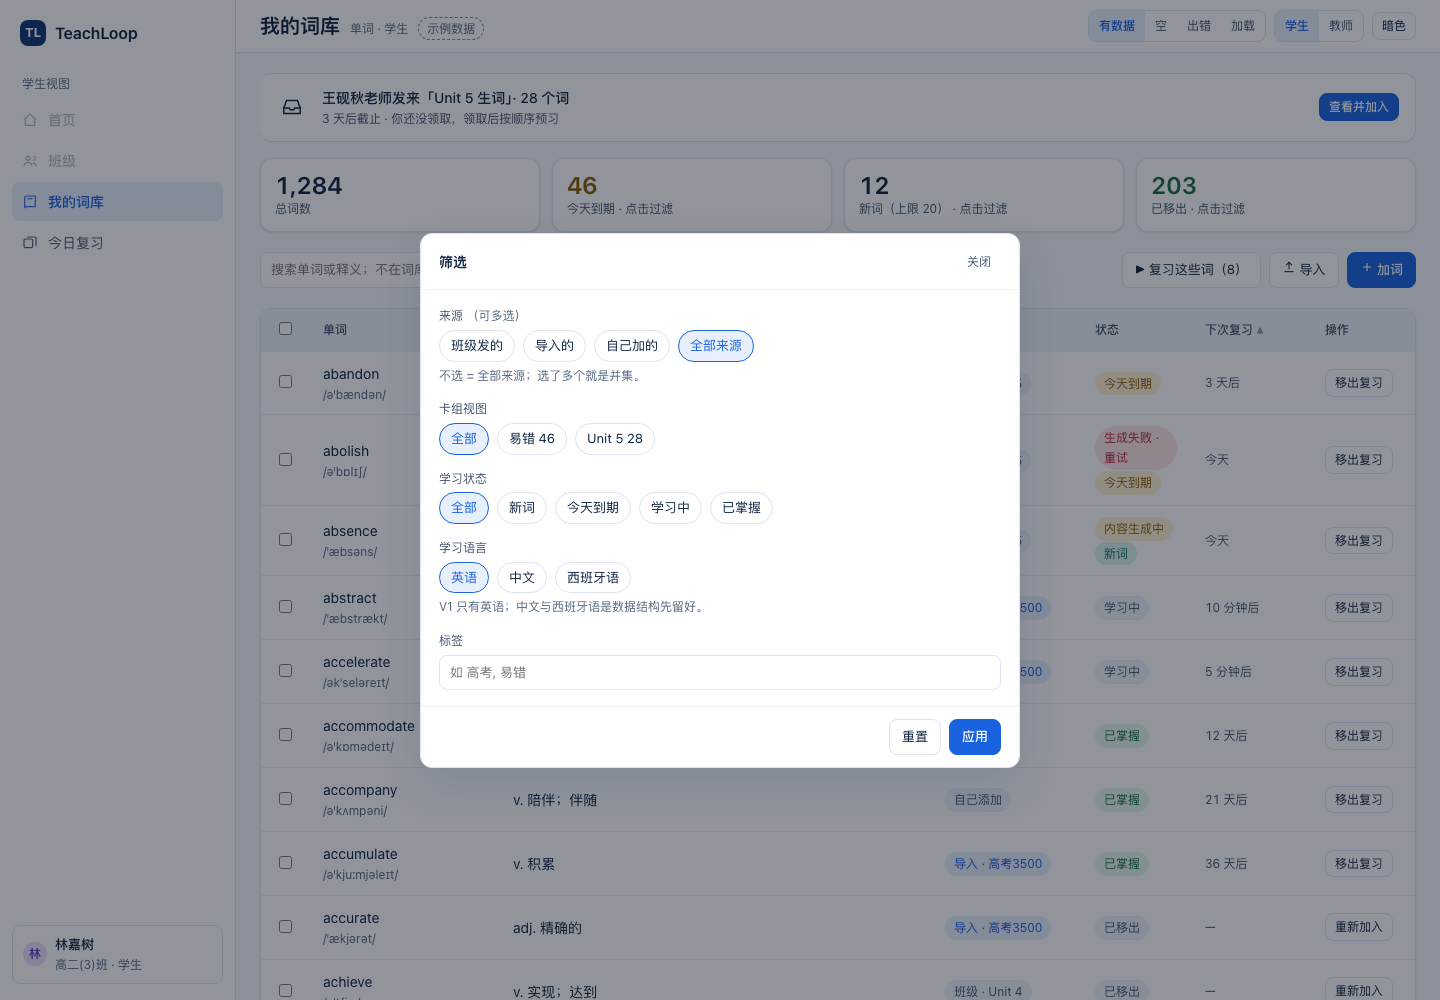
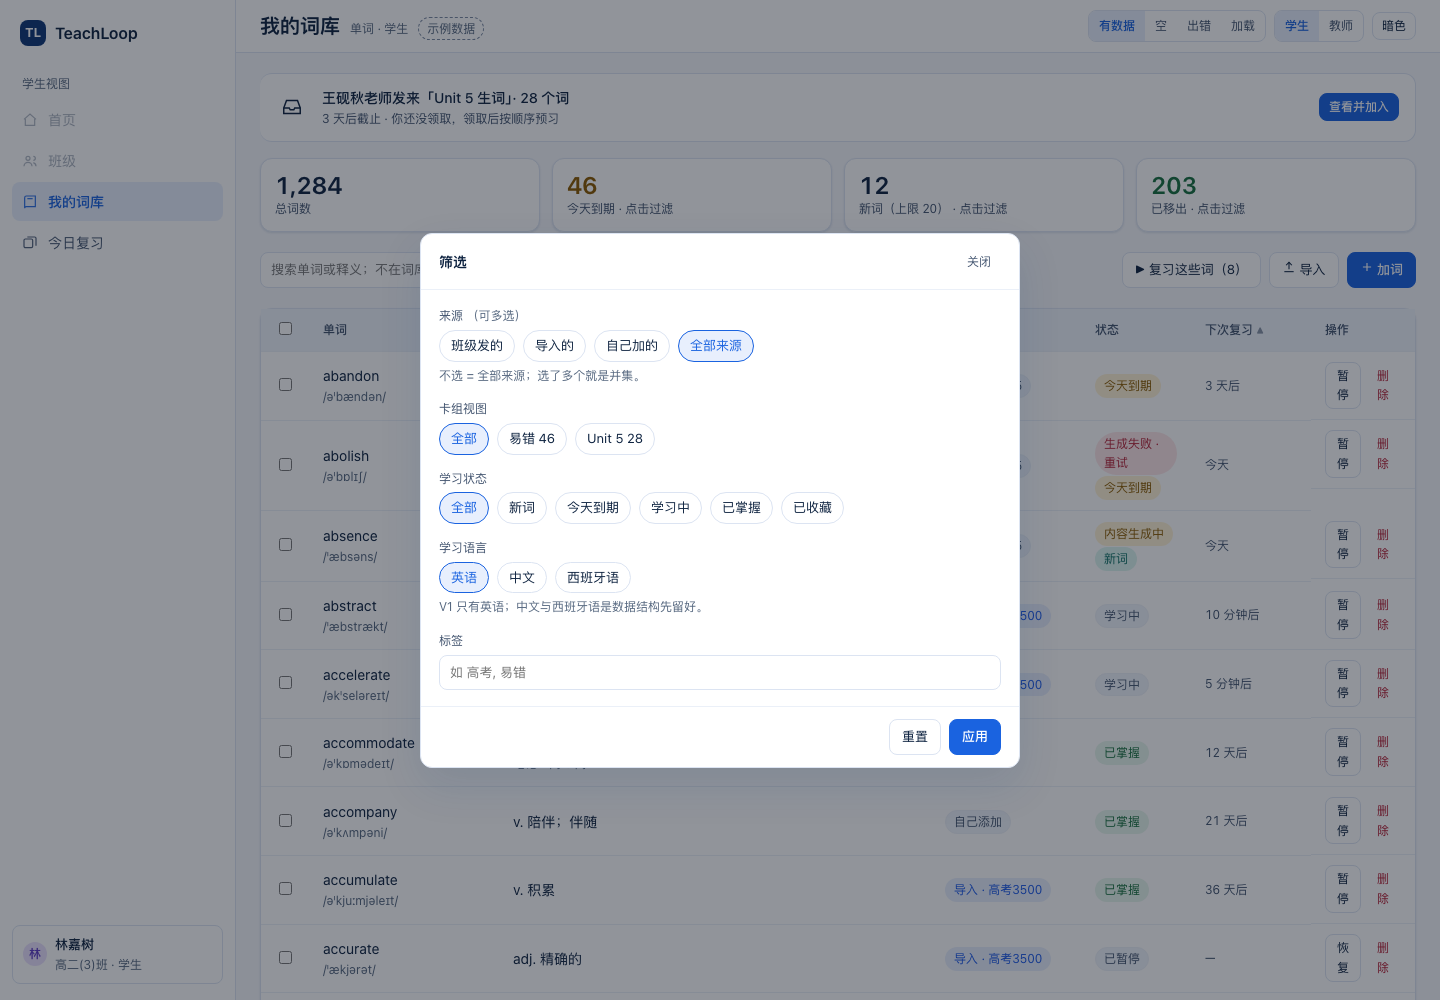
docs(vocab): 收藏 / 暂停 / 删除 三个动作拆清楚
用户问「favorite 和 delete 都是啥」，暴露出语义重叠：移出复习听起来像删除，真正的删除又没露出来。

- 收藏：纯标记，并给筛选加「已收藏」条件，让按钮有用途
- 暂停复习（原「移出复习」改名）：不排期、词还在库；行内与详情页都有
- 删除：软删除，**只在词库页**（行内与批量），列表/搜索/队列/统计都看不见；详情页不提供
- 恢复：仅对已暂停的词出现，回到新词
- 原型同步改名与按钮；操作列加宽、去掉换行

spec：AC-59.2/59.3/59.9/59.11、AC-60.3 改写；新增 §20 三个动作的分工表；AC 94→95。

diff --git a/docs/mock/vocab-2026-10-23/index.html b/docs/mock/vocab-2026-10-23/index.html
@@ -362,7 +362,8 @@ const S = {
   // 第二轮反馈新增
   card:null,            // 统计卡过滤：due | new | grad | null
   sel:[],               // 勾选的词
-  known:[],             // 已「移出复习」的词
+  known:[],             // 已「暂停复习」的词
+  deleted:[],           // 已从词库软删除的词（学生看不见）
   sort:'next',          // 默认按下次复习升序
   sortDir:1,
   cols:['def','src','st','next'],   // 除「单词」外的列，顺序即显示顺序
@@ -497,7 +498,7 @@ function screenLibrary(){
   if (S.ds!=='data') return BANNER + stateBlock(S.ds);
 
   const known = w => S.known.includes(w) || w.st==='grad';
-  let rows = WORDS.filter(w=>{
+  let rows = WORDS.filter(w=>!S.deleted.includes(w.w)).filter(w=>{
     if (S.q && !(w.w.includes(S.q.toLowerCase()) || w.def.includes(S.q))) return false;
     if (S.popFilters.src.length && !S.popFilters.src.some(k =>
           (k==='class' && w.src.startsWith('班级')) ||
@@ -507,7 +508,8 @@ function screenLibrary(){
     if (S.card==='due' && w.st!=='due') return false;
     if (S.card==='new' && w.st!=='new') return false;
     if (S.card==='grad' && !known(w) && w.st!=='grad') return false;
-    if (S.popFilters.status!=='all' && w.st!==S.popFilters.status) return false;
+    if (S.popFilters.status==='fav') { if (!S.fav.includes(w.w)) return false; }
+    else if (S.popFilters.status!=='all' && w.st!==S.popFilters.status) return false;
     return true;
   });
   rows = rows.slice().sort((a,b)=>{
@@ -521,7 +523,7 @@ function screenLibrary(){
   const COL = { def:'释义', src:'来源', st:'状态', next:'下次复习' };
   const genChip = w => w.gen==='pending' ? '<span class="chip due">内容生成中</span>'
     : w.gen==='failed' ? '<span class="chip" style="background:var(--red-weak);color:var(--red);border-color:transparent">生成失败 · 重试</span>' : '';
-  const stChip = w => known(w) ? '<span class="chip">已移出</span>'
+  const stChip = w => known(w) ? '<span class="chip">已暂停</span>'
     : w.st==='due' ? '<span class="chip due">今天到期</span>'
     : w.st==='new' ? '<span class="chip assess">新词</span>'
     : w.st==='learn' ? '<span class="chip">学习中</span>'
@@ -534,7 +536,7 @@ function screenLibrary(){
       ['1,284','总词数','',null],
       ['46','今天到期','var(--amber)','due'],
       ['12','新词（上限 20）','','new'],
-      ['203','已移出','var(--green)','grad']
+      ['203','已暂停','var(--green)','grad']
     ].map(([k,l,c,f])=>`<div class="card stat ${f?'clickable':''} ${S.card===f?'on':''}"
       ${f?`onclick="S.card=S.card==='${f}'?null:'${f}';render()"`:''}>
       <div class="k mono" style="${c?`color:${c}`:''}">${k}</div><div class="l">${l}${f?' · 点击过滤':''}</div></div>`).join('')}
@@ -564,7 +566,8 @@ function screenLibrary(){
 
   ${S.sel.length?`<div class="batchbar">
     <b>已选 ${S.sel.length} 个</b>
-    <button class="btn sm primary" onclick="bulkKnown()">批量移出复习</button>
+    <button class="btn sm primary" onclick="bulkKnown()">批量暂停</button>
+    <button class="btn sm" style="color:var(--red)" onclick="bulkDelete()">批量删除</button>
     <button class="btn sm" onclick="S.sel=[];render()">取消选择</button>
     <span class="sm muted">批量操作会先二次确认，提示将影响 N 个词</span>
   </div>`:''}
@@ -578,7 +581,7 @@ function screenLibrary(){
         ${S.cols.filter(c=>c==='src').map(()=>`<th style="width:150px">来源</th>`).join('')}
         ${S.cols.filter(c=>c==='st').map(()=>`<th class="sortable" style="width:110px" onclick="setSort('st')">状态 ${arrow('st')}</th>`).join('')}
         ${S.cols.filter(c=>c==='next').map(()=>`<th class="sortable" style="width:120px" onclick="setSort('next')">下次复习 ${arrow('next')}</th>`).join('')}
-        <th style="width:104px">操作</th>
+        <th style="width:132px">操作</th>
       </tr></thead>
       <tbody>
         ${rows.map(w=>`<tr>
@@ -590,7 +593,10 @@ function screenLibrary(){
           ${S.cols.filter(c=>c==='src').map(()=>`<td><span class="chip ${w.srcType}">${w.src}</span></td>`).join('')}
           ${S.cols.filter(c=>c==='st').map(()=>`<td>${genChip(w)}${stChip(w)}</td>`).join('')}
           ${S.cols.filter(c=>c==='next').map(()=>`<td class="mono sm muted">${known(w)?'—':w.due}</td>`).join('')}
-          <td>${known(w)?`<button class="btn sm" onclick="unmarkKnown('${w.w}')">重新加入</button>`:`<button class="btn sm" onclick="markKnown('${w.w}');toast('已移出复习；可在词库筛「已移出」找回')">移出复习</button>`}</td>
+          <td class="row" style="gap:4px;white-space:nowrap">
+            ${known(w)?`<button class="btn sm" onclick="unmarkKnown('${w.w}')">恢复</button>`:`<button class="btn sm" onclick="markKnown('${w.w}');toast('已暂停复习；可随时恢复')">暂停</button>`}
+            <button class="btn ghost sm" style="color:var(--red)" onclick="softDelete('${w.w}')">删除</button>
+          </td>
         </tr>`).join('')}
         ${rows.length===0?`<tr><td colspan="7"><div class="state" style="padding:28px"><h3>没有匹配的词</h3><p>清掉筛选或换个关键词试试。</p><button class="btn" onclick="S.card=null;S.q='';S.popFilters={src:[],deck:'all',status:'all',lang:'en'};render()">清空筛选</button></div></td></tr>`:''}
       </tbody>
@@ -630,7 +636,7 @@ function filterModal(){
         </div>
         <div class="field"><label>学习状态</label>
           <div class="class-pick">
-            ${[['all','全部'],['new','新词'],['due','今天到期'],['learn','学习中'],['grad','已掌握']].map(([v,l])=>
+            ${[['all','全部'],['new','新词'],['due','今天到期'],['learn','学习中'],['grad','已掌握'],['fav','已收藏']].map(([v,l])=>
               `<button class="class-chip ${F.status===v?'on':''}" onclick="S.popFilters.status='${v}';render()">${l}</button>`).join('')}
           </div></div>
         <div class="field"><label>学习语言</label>
@@ -650,7 +656,9 @@ function toggleSrc(v){ const a=S.popFilters.src; S.popFilters.src = a.includes(v
 function filterCount(){ let n=0; if(S.popFilters.src.length) n++; if(S.popFilters.deck!=='all') n++; if(S.popFilters.status!=='all') n++; if(S.popFilters.lang!=='en') n++; if(S.card) n++; return n; }
 function toggleSel(w){ S.sel = S.sel.includes(w)?S.sel.filter(x=>x!==w):[...S.sel,w]; render(); }
 function toggleAll(on){ S.sel = on?'':[]; if(on){} render(); }
-function bulkKnown(){ S.known=[...new Set([...S.known,...S.sel])]; toast(`已将 ${S.sel.length} 个词移出复习`); S.sel=[]; render(); }
+function softDelete(w){ S.deleted=[...new Set([...S.deleted,w])]; S.sel=S.sel.filter(x=>x!==w); toast('已从词库删除（软删除，历史记录保留）'); render(); }
+function bulkDelete(){ S.deleted=[...new Set([...S.deleted,...S.sel])]; toast(`已删除 ${S.sel.length} 个词`); S.sel=[]; render(); }
+function bulkKnown(){ S.known=[...new Set([...S.known,...S.sel])]; toast(`已暂停 ${S.sel.length} 个词`); S.sel=[]; render(); }
 function setSort(k){ if(S.sort===k) S.sortDir=-S.sortDir; else {S.sort=k;S.sortDir=1;} render(); }
 function moveCol(i,d){ const j=i+d; if(j<0||j>=S.cols.length) return; const a=S.cols.slice(); [a[i],a[j]]=[a[j],a[i]]; S.cols=a; render(); }
 function startFree(n){ S.free=true; S.freeTotal=n; S.freeIdx=0; S.freeKnown=0; S.freeRated={again:0,hard:0,good:0,easy:0}; S.flipped=false; S.screen='review'; render(); }
@@ -682,8 +690,7 @@ function screenDetail(){
           <div class="row">
             ${isNewWord?`<button class="btn primary" onclick="addFromDetail()">＋ 加入词库</button>`:`
               <button class="fav ${isFav?'on':''}" onclick="toggleFav('${w.w}')">${isFav?'★ 已收藏':'☆ 收藏'}</button>
-              <button class="btn" title="回到新词，历史日志保留" onclick="resetWord('${w.w}')">重新加入生词本</button>
-              <button class="btn" onclick="S.known.includes('${w.w}')?unmarkKnown('${w.w}'):markKnown('${w.w}')">${S.known.includes('${w.w}')?'取消移出':'移出复习'}</button>`}
+              <button class="btn" onclick="S.known.includes('${w.w}')?unmarkKnown('${w.w}'):markKnown('${w.w}')">${S.known.includes('${w.w}')?'恢复复习':'暂停复习'}</button>`}
           </div>
         </div>
       </div>
@@ -746,7 +753,7 @@ function screenDetail(){
         ${isNewWord ? `<div class="between"><span>状态</span><span class="muted">未加入词库</span></div>
         <div class="between"><span>下次复习</span><span class="mono">—</span></div>
         <div class="sm muted-2" style="margin-top:8px">加入后进入「新词」队列，今天就能复习。</div>` : `
-        <div class="between"><span>状态</span><span>${S.known.includes(w.w)?'已移出复习':'复习中'}</span></div>
+        <div class="between"><span>状态</span><span>${S.known.includes(w.w)?'已暂停':'复习中'}</span></div>
         <div class="between"><span>下次复习</span><span class="mono">${S.known.includes(w.w)?'—':w.due}</span></div>
         <div class="between"><span>易度</span><span class="mono">2.50</span></div>
         <div class="between"><span>间隔</span><span class="mono">12 天</span></div>`}

diff --git a/specs/004-vocab/spec.md b/specs/004-vocab/spec.md
@@ -172,15 +172,16 @@
 > 词库是学生批处理的主战场，不是一个只读列表。
 
 - [ ] AC-59.1 每行最左有**复选框**；表头有全选；选中 ≥1 行后出现批量操作条，可**批量「移出复习」**（二次确认，显示将影响 N 个词）。
-- [ ] AC-59.2 每行右侧有**「移出复习」按钮**，单条操作；移出后该词立刻从「今日复习」与「到期」统计里消失，状态显示「已移出」；**词仍在词库、仍可搜索到**，行内按钮变为「重新加入」。
-- [ ] AC-59.3 **重新加入 = 回到生词本**：状态回到「新词」，当天进入队列重新开始排期；历史复习日志保留，不删除记录。
+- [ ] AC-59.2 每行右侧有**「暂停 / 恢复」按钮**（原「移出复习」改名）：暂停后该词立刻从「今日复习」与「到期」统计里消失，状态显示「已暂停」；**词仍在词库、仍可搜索到**，行内按钮变为「恢复」。
+- [ ] AC-59.3 **恢复 = 回到生词本**：状态回到「新词」，当天进入队列重新开始排期；历史复习日志保留，不删除记录。
 - [ ] AC-59.4 点击单词（非复选框区域）进入**单词详情页**；详情页与复习页共用同一套模板（US-60）。
 - [ ] AC-59.5 列可自定义：可勾选显示哪些列、可拖动调整列顺序；配置按学生保存，下次打开沿用。
 - [ ] AC-59.6 默认列（按此顺序）：**单词 / 释义 / 来源 / 状态 / 下次复习 / 操作**；默认排序 = 下次复习时间升序。
 - [ ] AC-59.7 点表头可按该列排序（升/降切换），排序在分页之上生效（不是只排当前页）。
 - [ ] AC-59.8 表格上方的统计卡**可点击过滤**：点「今天到期」只看今天到期，点「新词」只看新词，点「已掌握」只看已掌握；再点一次取消。当前生效的过滤要在卡片上有可见选中态。
-- [ ] AC-59.9 工具条有**「筛选」按钮**，点击打开弹窗（modal），可在其中组合：**来源（多选，多个取并集，不选 = 全部）**、**卡组视图**、学习状态、标签、语言；弹窗底部「应用 / 重置」，应用后列表与统计同步，按钮上显示生效条件数。**工具条上不再放「全部 / 易错」这类视图切换**——视图统一进筛选弹窗。
+- [ ] AC-59.9 工具条有**「筛选」按钮**，点击打开弹窗（modal），可在其中组合：**来源（多选，多个取并集，不选 = 全部）**、**卡组视图**、学习状态、**已收藏**、标签、语言；弹窗底部「应用 / 重置」，应用后列表与统计同步，按钮上显示生效条件数。**工具条上不再放「全部 / 易错」这类视图切换**——视图统一进筛选弹窗。
 - [ ] AC-59.10 过滤条件要能出现在 URL 上（刷新与分享后仍生效）。
+- [ ] AC-59.11 **删除只在词库页**（行内或批量）：软删除，删除后该词从列表、搜索、队列、统计里全部消失（学生看不见），历史复习日志保留；再次通过导入或班级布置进来时按 AC-55.3 恢复。**详情页不提供删除**（2026-10-23 定）。
 
 ### US-60 单词详情页（模板化 + 可预生成）
 
@@ -191,8 +192,8 @@
   - **不在库**：显示「＋ 加入词库」；点击后入库、进入「新词」队列（今天可复习），内容异步生成；
   - **在库**：显示 favourite 收藏开关 +「重新加入生词本」+「移出复习」。
   「重新加入生词本」对**任何在库的词**都可用（包括误点后想重来的），效果是重置为新词、日志保留；需二次确认。
-- [ ] AC-60.3 详情页的 **remove 与词库的「移出复习」是同一个动作**：以后不再安排这个词复习；词仍在库、可搜索；状态显示「已移出」，可一键「重新加入生词本」（回到新词、当天可复习、历史保留）。
-- [ ] AC-60.8 详情页**不提供撤销上一次评分**（2026-10-23 决定）；误点的官方路径是「搜索该词 → 详情 → 重新加入生词本」（进度归零、日志保留），在页面上要有文案说明这一点。
+- [ ] AC-60.3 详情页的动作只有两个：**收藏** 与 **暂停 / 恢复**（与词库行内是同一动作）。暂停后不再安排复习、词仍在库可搜索、状态「已暂停」；恢复后回到新词、当天可复习、历史保留。**详情页不提供删除**，删除只在词库页（AC-59.11）。
+- [ ] AC-60.8 详情页**不提供撤销上一次评分**（2026-10-23 决定）；误点的官方路径是「搜索该词 → 详情 → 暂停 → 恢复」（进度归零、日志保留），在页面上要有文案说明这一点。
 - [ ] AC-60.4 页面提供 **feedback 入口**；提交时带上**当前单词的 JSON**（不是只带 word id），便于定位内容问题。
 - [ ] AC-60.5 详情页是**模板 + JSON**：同一份 HTML 模板渲染不同单词，不允许每个词一个页面文件。
 - [ ] AC-60.6 页面内容允许**预生成为静态 HTML**（如 `word/{lang}/{word}.html`），存在时由反向代理直接返回；不存在时异步生成，**生成期间页面先用模板 + 实时 JSON 渲染**，不阻塞用户。是否存在由 Bloom filter 做前置判断（只用于「一定没有」的快速否定，最终以存储为准）。
@@ -521,12 +522,12 @@
 
 ## 19. 误点之后怎么补救（2026-10-23 已定）
 
-决定：**不做撤销**，用现成的入口救——「搜索该词 → 进详情 → 重新加入生词本」。
+决定：**不做撤销**，用现成的入口救——「搜索该词 → 进详情 → 暂停后再恢复」。
 
 | 途径 | 效果 | 代价 |
 | :--- | :--- | :--- |
-| **搜索 → 详情 → 重新加入生词本** | 立刻回到「新词」，今天就能再复习 | 进度归零（间隔/易度重置），但不是删除历史日志 |
-| 词库 → 详情 →「移出复习」再「重新加入」 | 同上，只是多一步 | 同上 |
+| **搜索 → 详情 → 暂停 → 恢复** | 立刻回到「新词」，今天就能再复习 | 进度归零（间隔/易度重置），但不是删除历史日志 |
+| 词库 → 详情 →「暂停」再「恢复」 | 同上，只是多一步 | 同上 |
 | 等下次到期 | 什么都不用做 | 「认识」会按易度往后推，老词可能十几天后才回来 |
 | 自由复习 | 立刻再练一遍 | 再评一次会继续往后推 |
 
@@ -534,3 +535,16 @@
 
 1. **「加词 / 导入」对已存在的词不做任何事**：命中去重后只提示「已在词库」，不会改进度——所以它救不了误点。
 2. **搜索无匹配时按 Enter 直接进详情**：这是「查任意词」的入口，不在库的词在这里可以「加入词库」；在库的词在这里可以「重新加入生词本」。
+
+
+## 20. 收藏 / 暂停 / 删除三个动作的分工（2026-10-23 定）
+
+学生侧同时对「一个词」有三种动作，含义必须分得开：
+
+| 动作 | 在哪 | 效果 | 可逆 |
+| :--- | :--- | :--- | :--- |
+| **收藏（favorite）** | 词库行、详情页 | 纯标记，不影响词库与排期；**筛选里新增「已收藏」条件**，复习范围也可只看收藏 | 随时取消 |
+| **暂停复习** | 词库行、详情页 | 不再安排复习；词仍在库、可搜索；状态「已暂停」 | 「恢复」后回到新词 |
+| **删除** | **只在词库页**（行内/批量） | 软删除：列表、搜索、队列、统计全部看不到；历史日志保留 | 再次导入/被布置时按 AC-55.3 恢复 |
+
+三条刻意不重叠：收藏不改学习状态；暂停不删词；删除不出现在详情页（避免在「看一个词」的页面里做不可逆操作）。

diff --git a/docs/mock/vocab-2026-10-23/README.md b/docs/mock/vocab-2026-10-23/README.md
@@ -4,6 +4,16 @@
 单文件、无依赖、无构建：**双击 `index.html` 就能点**。
 
 
+## 第九版（收藏 / 暂停 / 删除 分工）
+
+| 动作 | 在哪 | 说明 |
+| :--- | :--- | :--- |
+| ☆ 收藏 | 词库行 + 详情页 | 纯标记；筛选弹窗新增「已收藏」条件 |
+| 暂停 / 恢复 | 词库行 + 详情页 | 不再排期，词还在库、可搜索；恢复后回到新词 |
+| 删除 | **只在词库页**（行内 + 批量） | 软删除：列表/搜索/队列/统计都看不见，历史保留 |
+
+原文的「移出复习 / 重新加入生词本」已统一改名为「暂停复习 / 恢复」；详情页不再有删除入口。
+
 ## 第八版（全量对齐后的清理）
 
 - 小结页改为两档口径（不认识 / 认识），并预置示例数据
